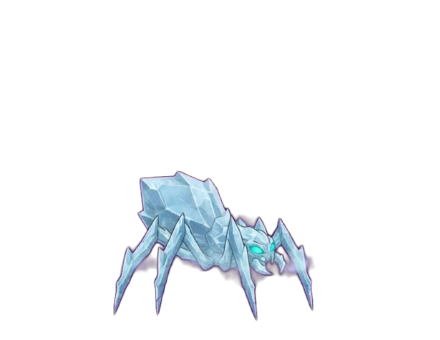
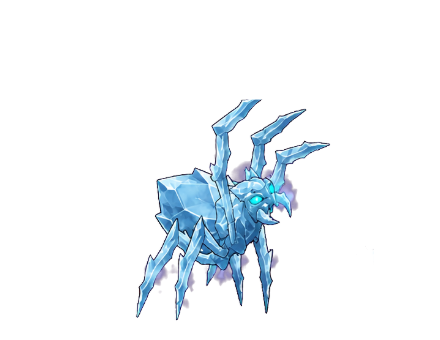
빙정 거미 걷기·공격 새 그림 (얼음 거미줄 뿜기·얼음 파편, ChatGPT)

Changed region(s): [[0.2364, 0.2941, 0.7682, 0.9412]]

diff --git a/js/10_render_actors.js b/js/10_render_actors.js
@@ -221,7 +221,7 @@ const SKIN_ART = {
   mob_white_tiger: { key: 'mob_white_tiger', h: 150 }, // 옆으로 긴 그림이라 작게 잘라서(180px) 키를 크게
   mob_ice_spider: { key: 'mob_ice_spider', h: 170 },
   mob_poison_spider: { key: 'mob_poison_spider', h: 170 },
-  mob_black_wolf: { key: 'mob_black_wolf', h: 150 } // 공격 그림은 ChatGPT. 거미 공격은 아직 걷기 그림 복사본
+  mob_black_wolf: { key: 'mob_black_wolf', h: 150 } // 백호 걷기·늑대 공격·거미 2종은 ChatGPT 그림 (11-12)
 };
 function enemyArt(e) {
   if (e.art) {

diff --git a/작업기록.md b/작업기록.md
@@ -279,3 +279,4 @@
 - 괴수 그림 (16:30 제미나이): 설원 백호(걷기·공격 세로 줄 그림 → mkcut walkRows/atkRows), 빙정 거미·만독 거미·흑풍 늑대는 걷기만 (공격 요청 실패 → 공격은 걷기 복사본). 그림이 앞 몹보다 단순함 → 다음에 공격 그림과 함께 다시 그려도 됨.
 - 백호 걷기 다시 (사용자 "앞발만 움직임"): ChatGPT(9222 탭, tools/gemini/gpt.mjs)에 다리마다 자세를 적어 요청 → 네 다리가 번갈아 움직임. 공격은 예전 그림 그대로.
 - 제미나이가 Flash-Lite 로 바뀌면 그림 품질 낮음·첨부 실패 → 거미·늑대 걷기 그림이 단순했던 이유. 공격 다시: tools/gemini/attack_redo.sh
+- ChatGPT로 다시 그림 (11-12 저녁): 백호 걷기, 늑대 공격, 만독 거미·빙정 거미 걷기+공격(4칸x2줄 한 장). 남은 것: 설산 거괴 공격 1번(뒤돈 장면), 현운 3장.
